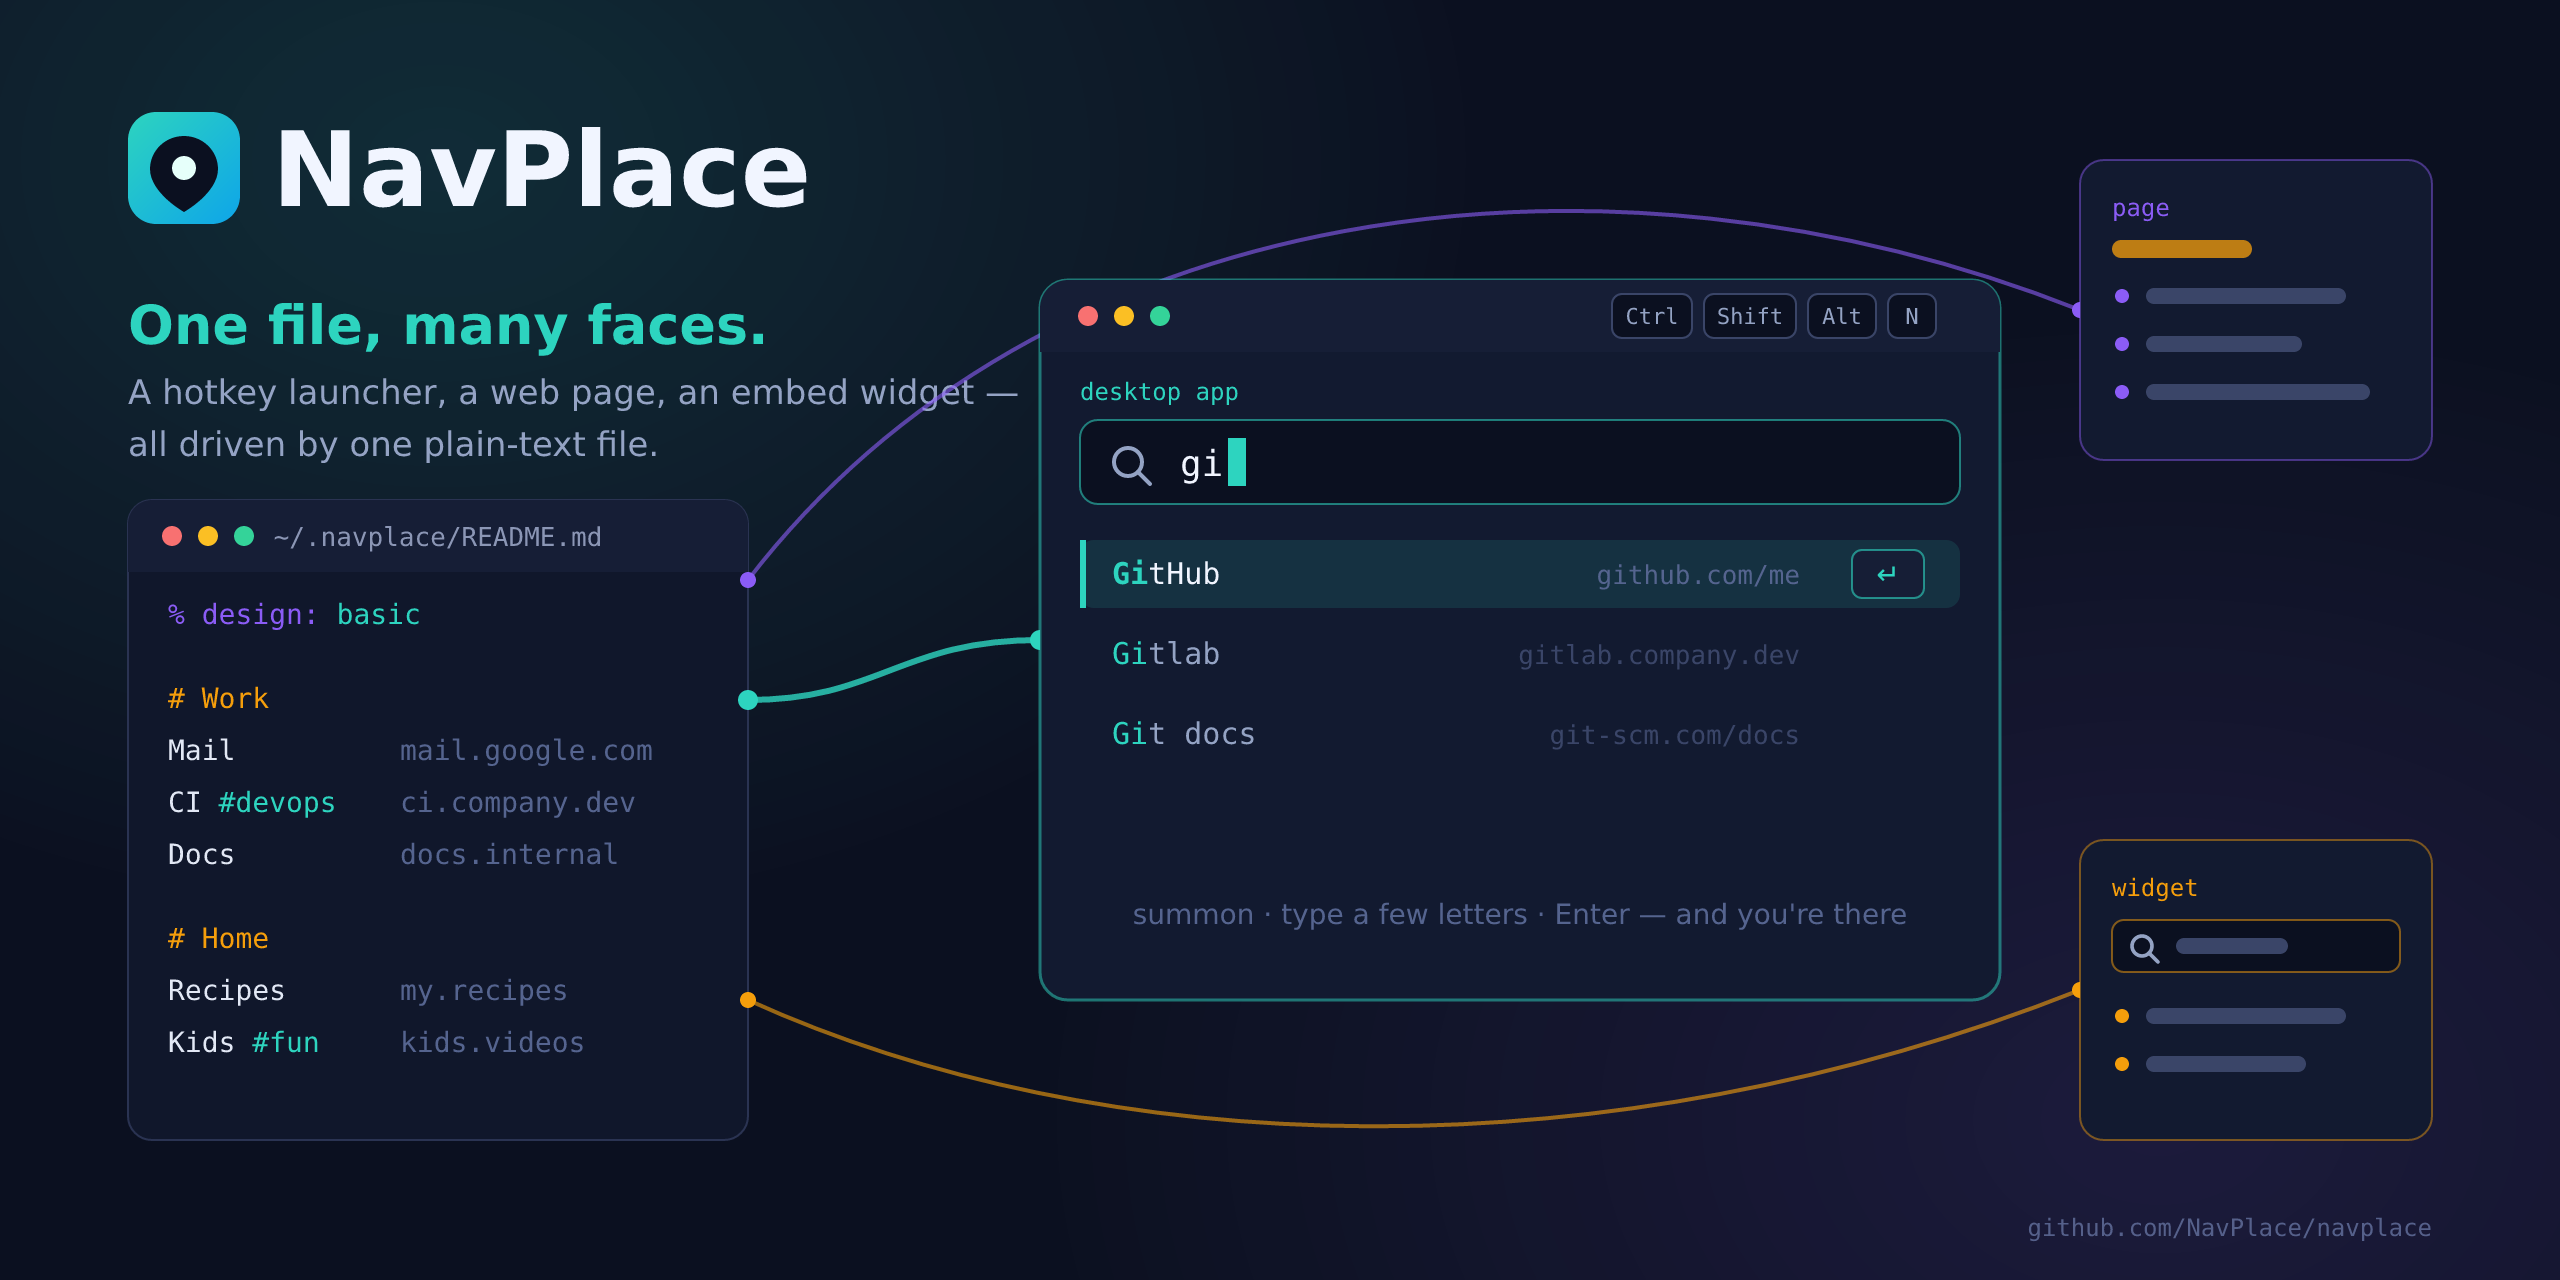
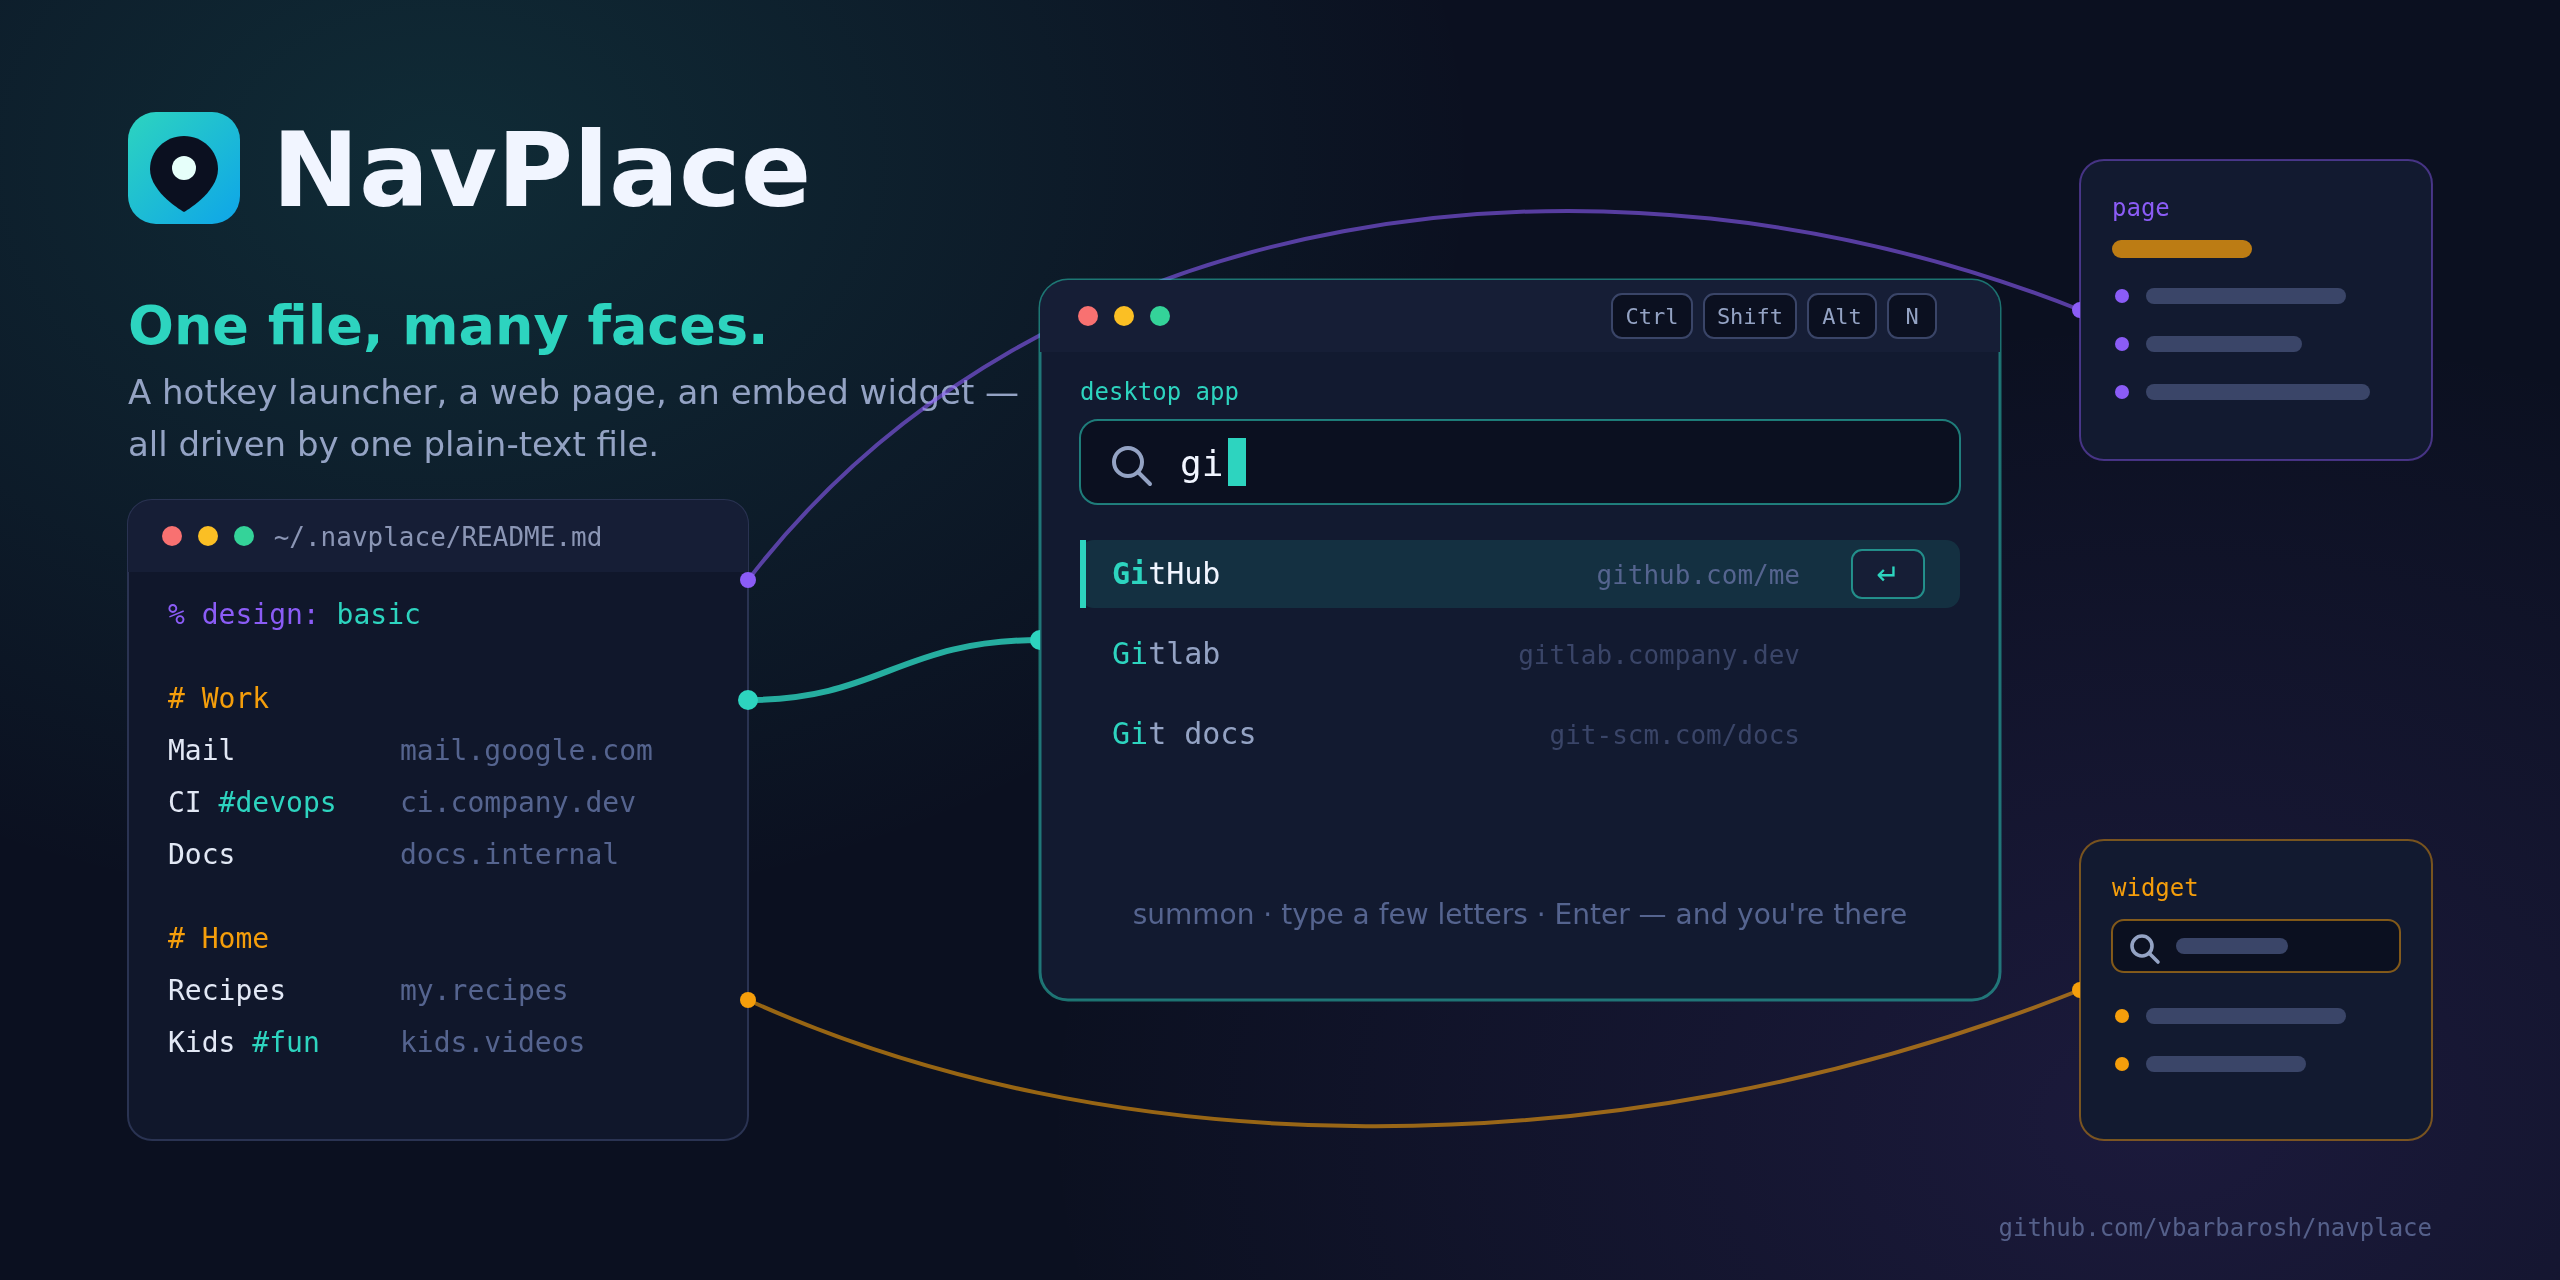
docs: repo url NavPlace/navplace → vbarbarosh/navplace

Changed region(s): [[0.7812, 0.9375, 0.9062, 0.9688]]

diff --git a/README.md b/README.md
@@ -14,11 +14,11 @@ Secondary goal:
 
 Grab the AppImage that fits your use:
 
-| Build                       | Built on            | Download                                                                                                                    |
-|-----------------------------|---------------------|-----------------------------------------------------------------------------------------------------------------------------|
-| Stable release              | tagged releases     | [releases/latest](https://github.com/NavPlace/navplace/releases/latest)                                                     |
-| Electron — source of truth  | every `master` push | [appimage-electron.yml](https://github.com/NavPlace/navplace/actions/workflows/appimage-electron.yml?query=branch%3Amaster) |
-| Deno — experimental AI port | every `master` push | [appimage-deno.yml](https://github.com/NavPlace/navplace/actions/workflows/appimage-deno.yml?query=branch%3Amaster)         |
+| Build                       | Built on            | Download                                                                                                                      |
+|-----------------------------|---------------------|-------------------------------------------------------------------------------------------------------------------------------|
+| Stable release              | tagged releases     | [releases/latest](https://github.com/vbarbarosh/navplace/releases/latest)                                                     |
+| Electron — source of truth  | every `master` push | [appimage-electron.yml](https://github.com/vbarbarosh/navplace/actions/workflows/appimage-electron.yml?query=branch%3Amaster) |
+| Deno — experimental AI port | every `master` push | [appimage-deno.yml](https://github.com/vbarbarosh/navplace/actions/workflows/appimage-deno.yml?query=branch%3Amaster)         |
 
 For a `master` build, open the latest successful run and download its artifact
 (named like `NavPlace-Electron-master-20260704_223730-abc1234-AppImage`, or

diff --git a/specs/ABOUT.md b/specs/ABOUT.md
@@ -123,7 +123,7 @@ The author's personal site (`vbarbarosh.com`) is, in full, a single HTML page th
 % email: hello@vbarbarosh.com
 
 # GitHub
-navplace                https://github.com/NavPlace/navplace/
+navplace                https://github.com/vbarbarosh/navplace/
 node-helpers            https://vbarbarosh.github.io/node-helpers
 vue-modal               https://vbarbarosh.github.io/vue-modal
 
@@ -183,4 +183,4 @@ Yes — MIT licensed, on GitHub.
 
 ## Status & contributing
 
-NavPlace is open source. Issues and pull requests are welcome at https://github.com/NavPlace/navplace.
+NavPlace is open source. Issues and pull requests are welcome at https://github.com/vbarbarosh/navplace.

diff --git a/specs/ABOUT.ai.md b/specs/ABOUT.ai.md
@@ -2,7 +2,7 @@
 
 Slogan: "Navigation at your fingertips"
 License: MIT.
-Repo: https://github.com/NavPlace/navplace
+Repo: https://github.com/vbarbarosh/navplace
 Author: Vladimir Barbarosh <hello@navplace.com>
 `package.json` description: "The fastest way to open your links".
 
